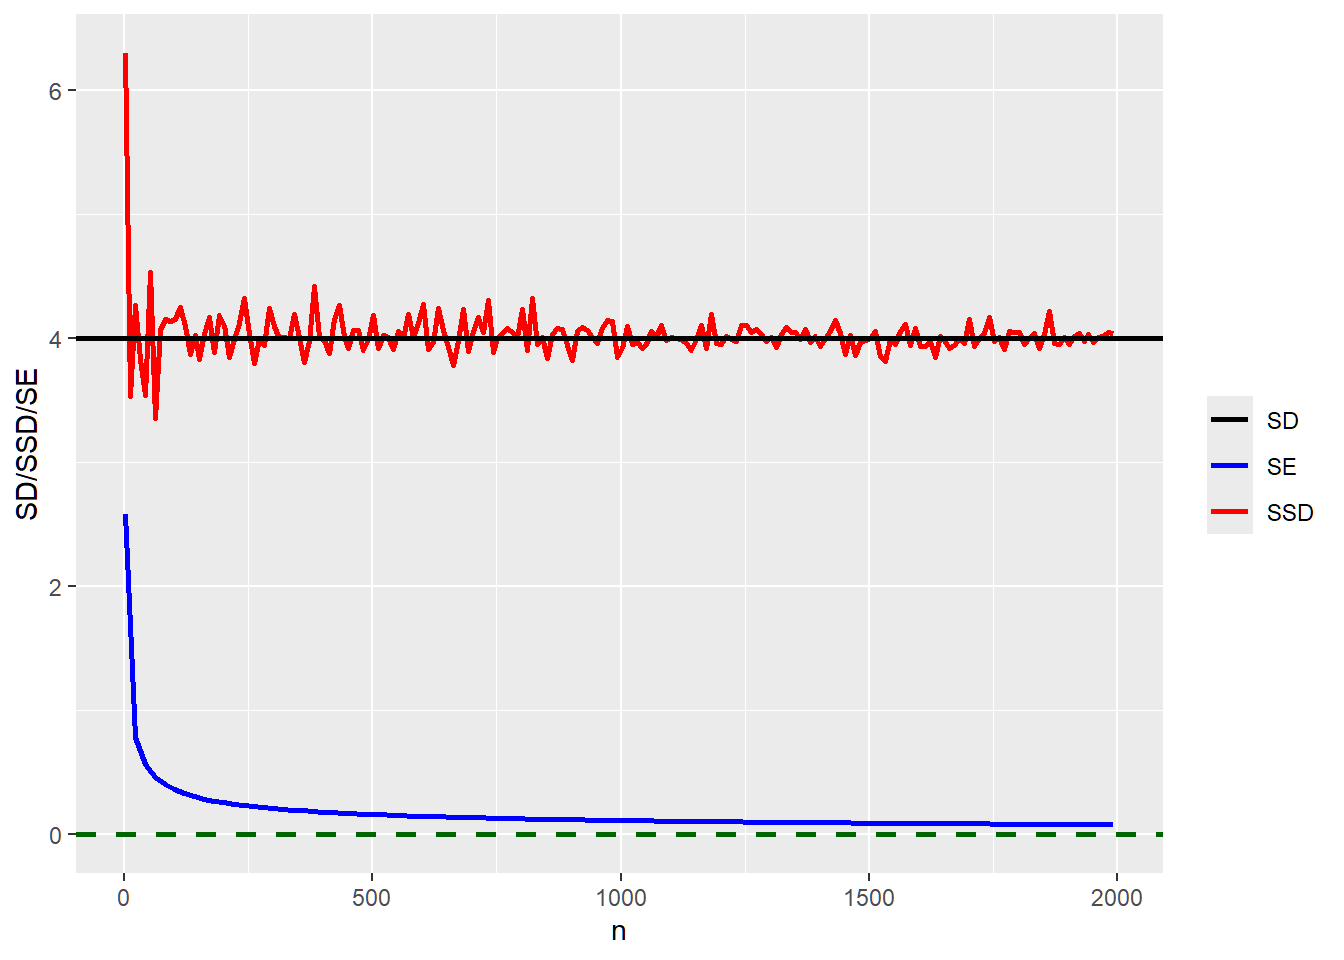
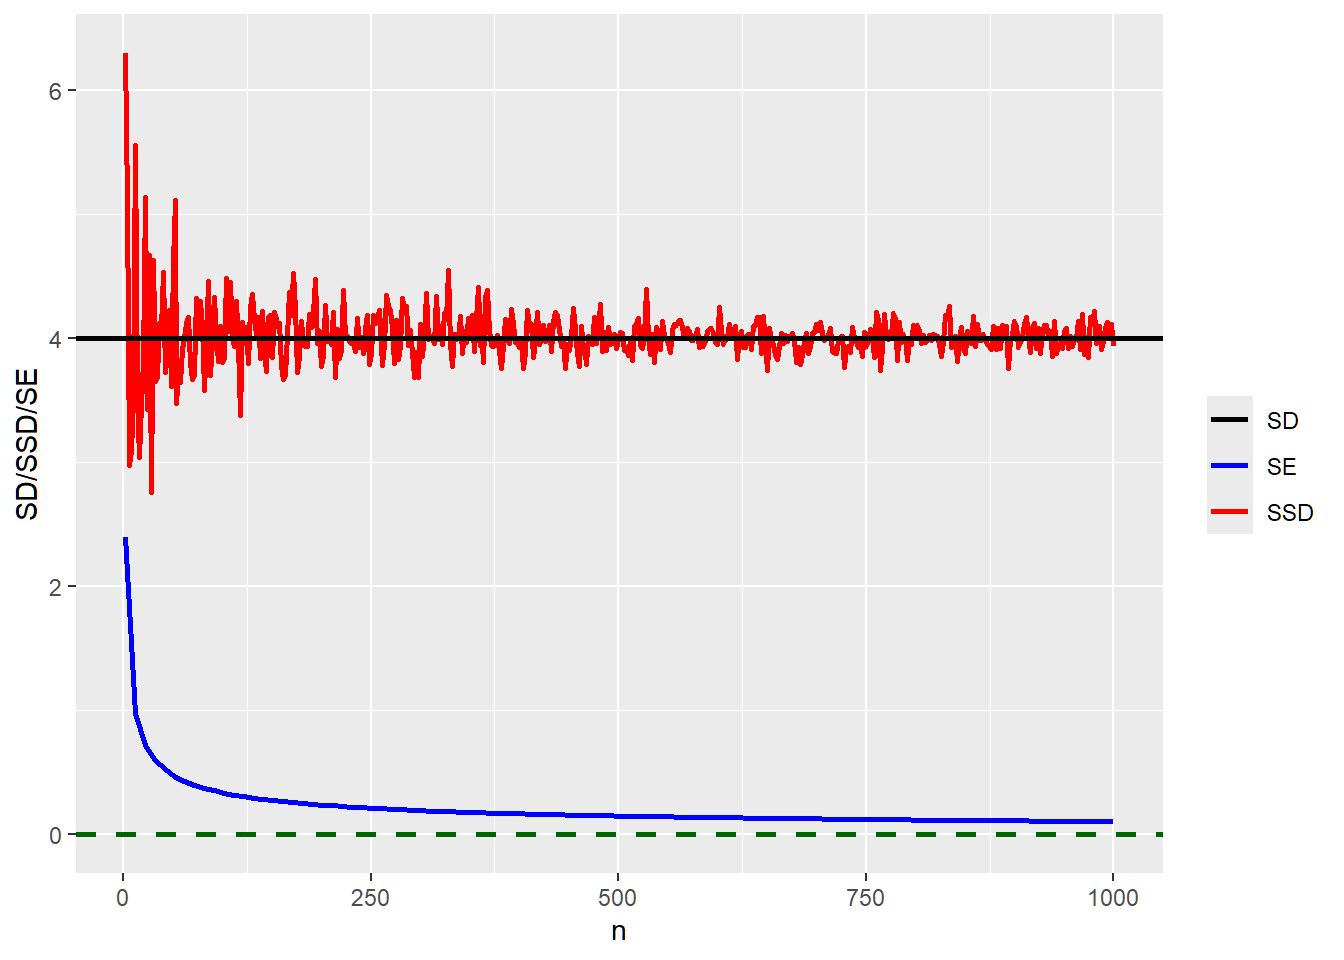
stderror

diff --git a/docs/blogs/Standard error/Standard Deviation, Sample Standard Deviation and Standard Error.html b/docs/blogs/Standard error/Standard Deviation, Sample Standard Deviation and Standard Error.html
@@ -287,7 +287,7 @@ window.Quarto = {
 <div class="sourceCode cell-code" id="cb9"><pre class="sourceCode r code-with-copy"><code class="sourceCode r"><span id="cb9-1"><a href="#cb9-1" aria-hidden="true" tabindex="-1"></a><span class="fu">set.seed</span>(<span class="dv">5</span>)</span>
 <span id="cb9-2"><a href="#cb9-2" aria-hidden="true" tabindex="-1"></a></span>
 <span id="cb9-3"><a href="#cb9-3" aria-hidden="true" tabindex="-1"></a><span class="co">#sample sizes</span></span>
-<span id="cb9-4"><a href="#cb9-4" aria-hidden="true" tabindex="-1"></a>n <span class="ot">&lt;-</span> <span class="fu">seq</span>(<span class="dv">2</span>, <span class="dv">2000</span>, <span class="at">by =</span> <span class="dv">10</span>)</span>
+<span id="cb9-4"><a href="#cb9-4" aria-hidden="true" tabindex="-1"></a>n <span class="ot">&lt;-</span> <span class="fu">seq</span>(<span class="dv">2</span>, <span class="dv">1000</span>, <span class="at">by =</span> <span class="dv">2</span>)</span>
 <span id="cb9-5"><a href="#cb9-5" aria-hidden="true" tabindex="-1"></a></span>
 <span id="cb9-6"><a href="#cb9-6" aria-hidden="true" tabindex="-1"></a><span class="co">#compute sample sd for a random sample of size n</span></span>
 <span id="cb9-7"><a href="#cb9-7" aria-hidden="true" tabindex="-1"></a>SSD <span class="ot">&lt;-</span> <span class="fu">map_dbl</span>(n, \(n) <span class="fu">sd</span>(<span class="fu">rnorm</span>(n, <span class="dv">10</span>, <span class="dv">4</span>)))</span>

diff --git a/docs/blogs.html b/docs/blogs.html
@@ -224,7 +224,7 @@ window.Quarto = {
 </a>
 </div>
 </div>
-<div class="quarto-post image-right" data-index="1" data-listing-date-sort="1741669200000" data-listing-file-modified-sort="1741688435576" data-listing-date-modified-sort="NaN" data-listing-reading-time-sort="6" data-listing-word-count-sort="1030">
+<div class="quarto-post image-right" data-index="1" data-listing-date-sort="1741669200000" data-listing-file-modified-sort="1741688624138" data-listing-date-modified-sort="NaN" data-listing-reading-time-sort="6" data-listing-word-count-sort="1030">
 <div class="thumbnail">
 <p><a href="./blogs/Standard error/Standard Deviation, Sample Standard Deviation and Standard Error.html" class="no-external"></a></p><a href="./blogs/Standard error/Standard Deviation, Sample Standard Deviation and Standard Error.html" class="no-external">
 <p class="card-img-top"><img src="blogs\Standard error\Standard-Deviation,-Sample-Standard-Deviation-and-Standard-Error_files\figure-html\unnamed-chunk-3-1.png"  class="thumbnail-image card-img"/></p>
